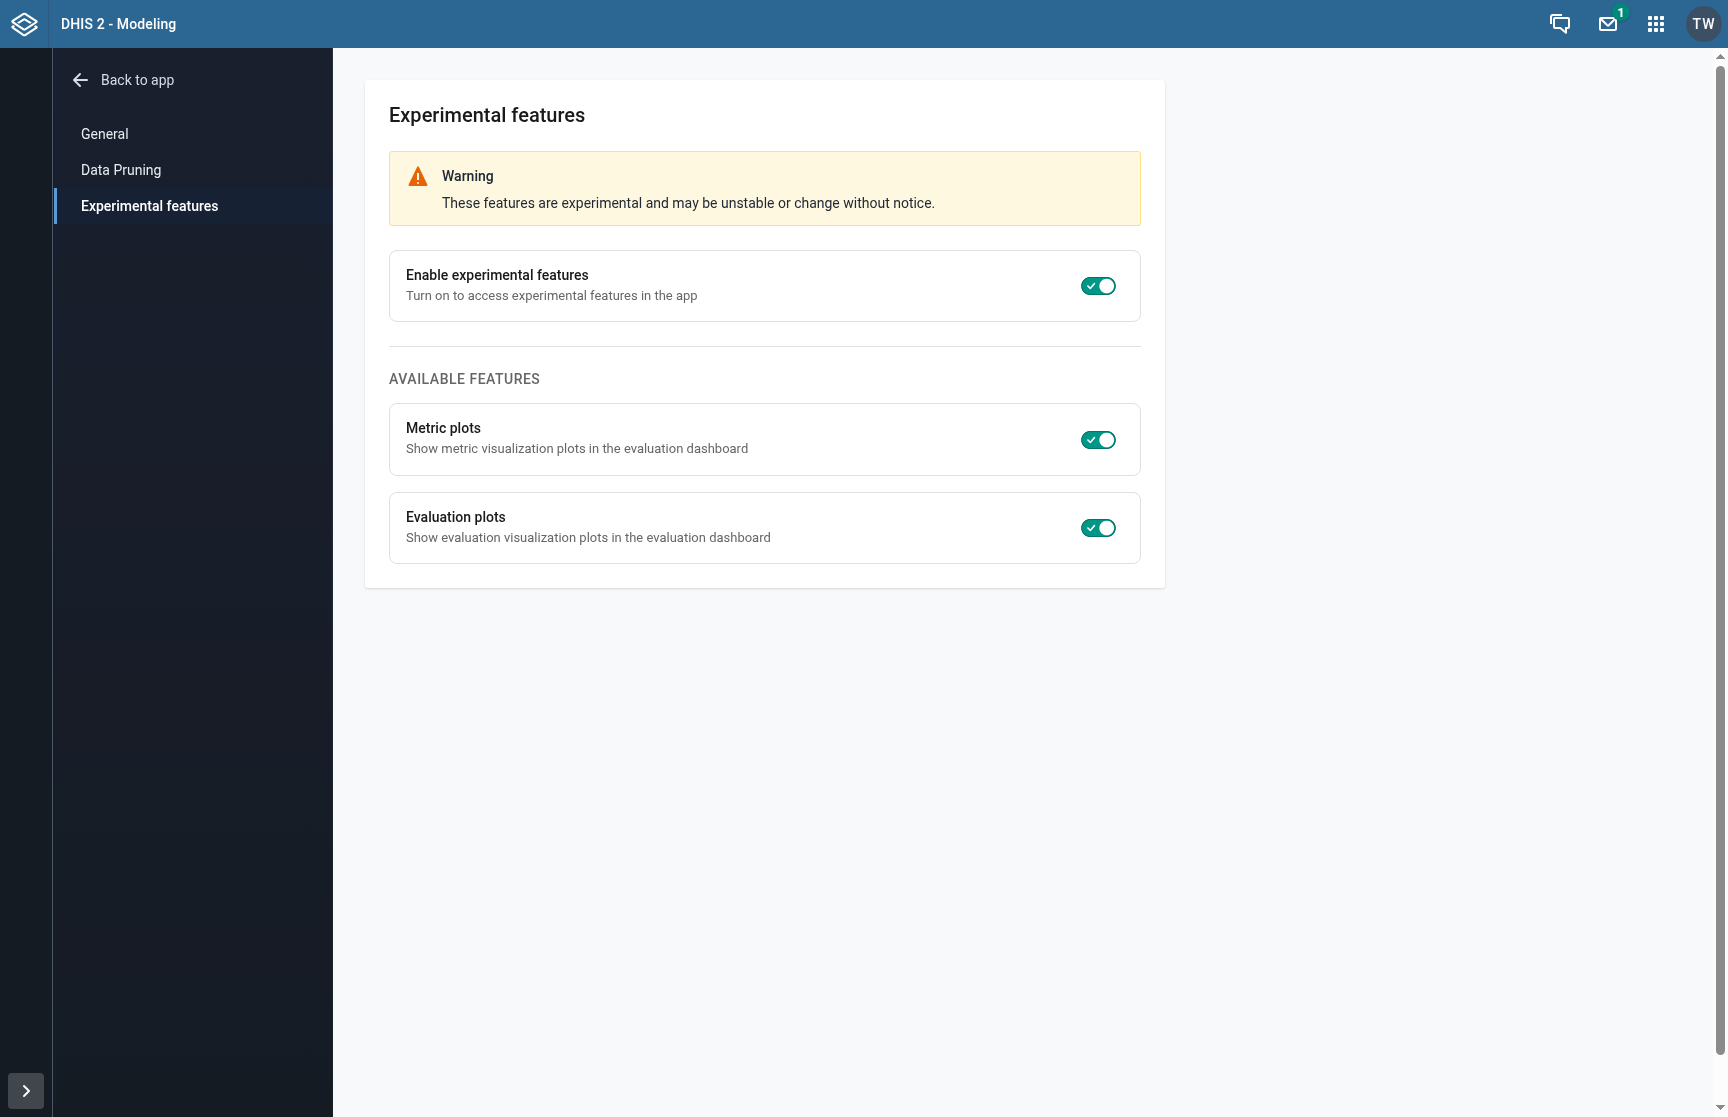
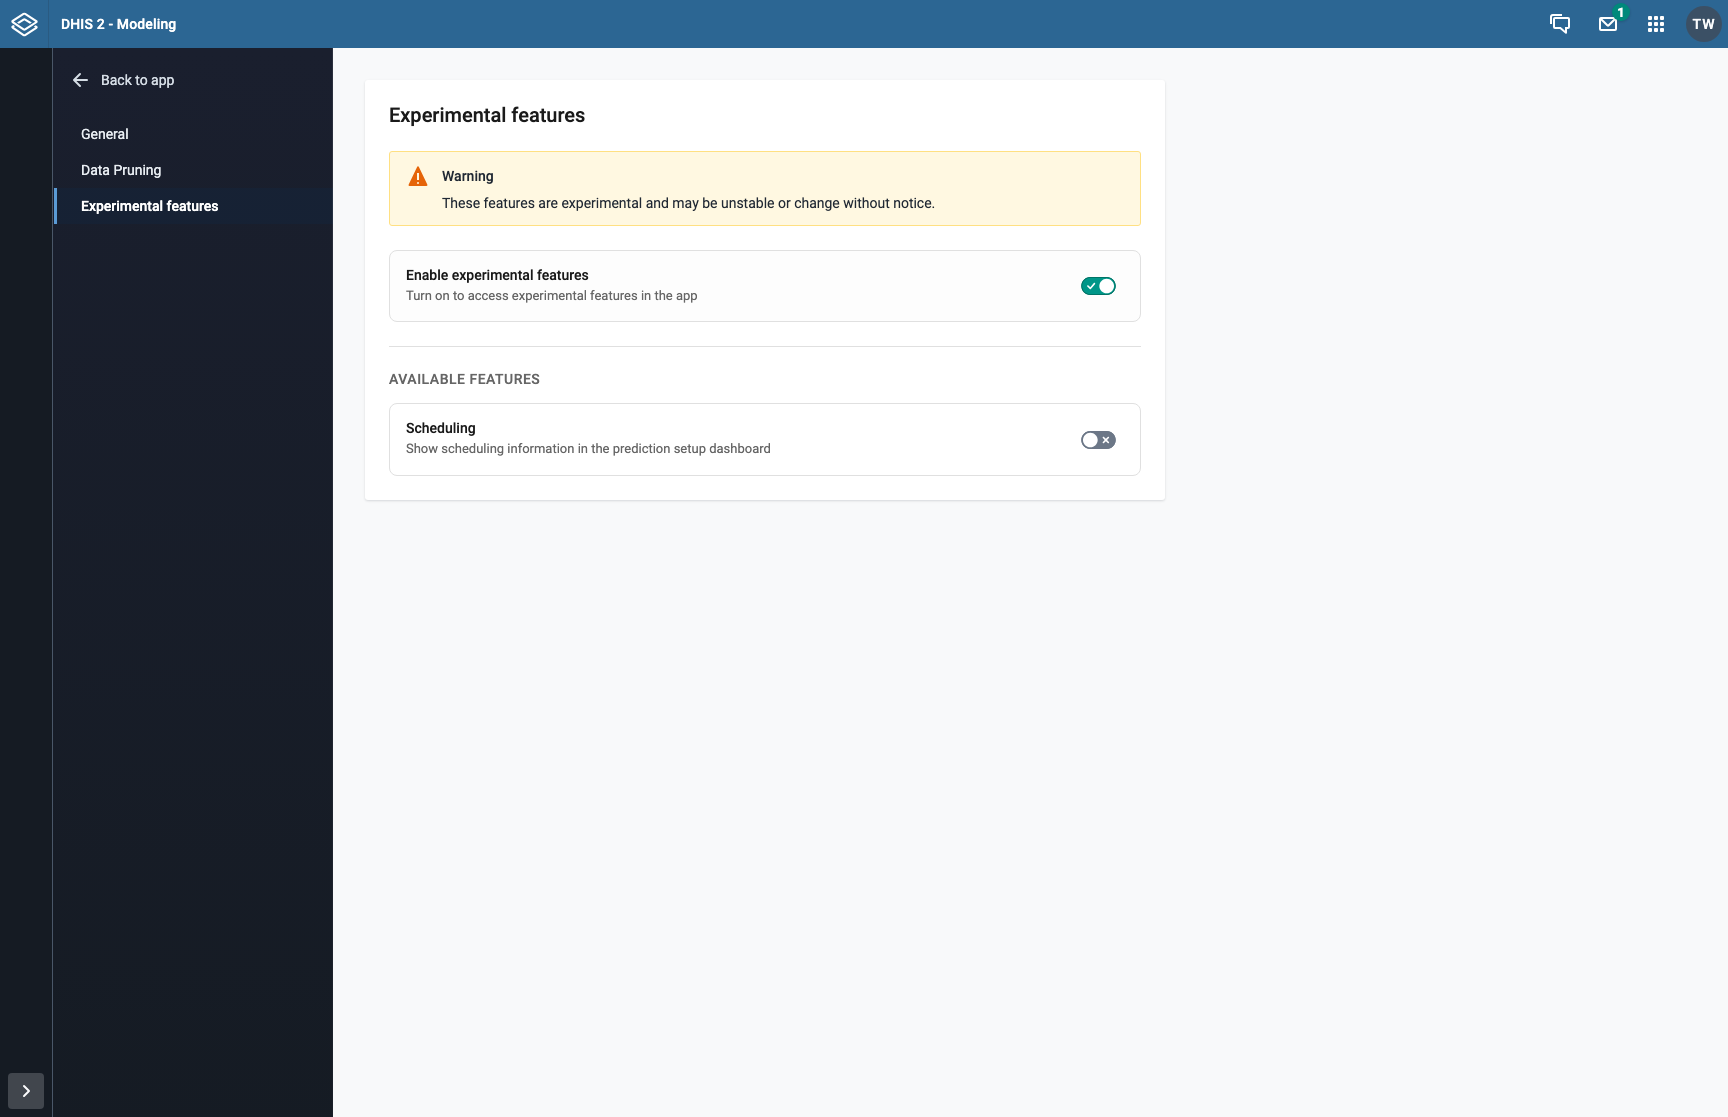
fix: verify and enable evaluation plots [CLIM-1039] (#250)
Evaluation plots are now always shown on the evaluation details page, so
the **Evaluation plots** experimental toggle is removed along with its
setting and user guide entry.

The predicted vs actual plots sent `horizon_period` (a period id) where
the backend expects `horizon_distance` (a number), so the subplot
request was unfiltered and every horizon was plotted. Both plots now
send the selected horizon distance.

Adds an e2e test that selects each predicted vs actual plot with
experimental features off and checks the returned points against the
evaluation entry and actual case data from the API.

[CLIM-1039](https://dhis2.atlassian.net/browse/CLIM-1039)

[CLIM-1039]:
https://dhis2.atlassian.net/browse/CLIM-1039?atlOrigin=eyJpIjoiNWRkNTljNzYxNjVmNDY3MDlhMDU5Y2ZhYzA5YTRkZjUiLCJwIjoiZ2l0aHViLWNvbS1KU1cifQ

diff --git a/apps/modeling-app/e2e/evaluations.spec.ts b/apps/modeling-app/e2e/evaluations.spec.ts
@@ -1,8 +1,80 @@
 import { expect, test } from '@playwright/test';
+import type { DataList, EvaluationEntry } from '@dhis2-chap/ui';
+import type { Spec } from 'vega';
+import { createCompletedNaiveEvaluation, chapUrl, readJson } from './helpers/evaluation-fixtures';
 
 test('logs in and loads the evaluations table', async ({ page }) => {
     await page.goto('/#/evaluate');
 
     await expect(page.getByRole('heading', { name: 'Evaluations' })).toBeVisible();
     await expect(page.locator('table').first()).toBeVisible();
+});
+
+test('renders predicted vs actual for the selected horizon without experimental features', async ({ page }, testInfo) => {
+    test.setTimeout(240_000);
+    page.setDefaultTimeout(15_000);
+    const evaluation = await createCompletedNaiveEvaluation(page);
+
+    // Isolate the feature-flag state; all evaluation and plot data use the real API.
+    await page.route('**/dataStore/modeling/experimental*', route => route.fulfill({
+        json: { version: 1, enabled: false, features: { evaluationPlots: false } },
+    }));
+    await page.goto(`/#/evaluate/${evaluation.id}`);
+    await expect(page.getByText('Evaluation plots', { exact: true })).toBeVisible();
+
+    const entries = await readJson<EvaluationEntry[]>(
+        await page.request.get(chapUrl(`/v1/analytics/evaluation-entry?backtestId=${evaluation.id}&quantiles=0.5`)),
+        'Load median predictions',
+    );
+    const actual = await readJson<DataList>(
+        await page.request.get(chapUrl(`/v1/analytics/actual-cases/${evaluation.id}`)),
+        'Load actual cases',
+    );
+
+    const observed = new Map(actual.data.map(value => [`${value.ou} ${value.pe}`, value.value]));
+    const monthIndex = (period: string) => Number(period.slice(0, 4)) * 12 + Number(period.slice(4));
+    const horizonOf = (entry: EvaluationEntry) => monthIndex(entry.period) - monthIndex(entry.splitPeriod) + 1;
+    const pointKey = (point: Record<string, string | number | null>) =>
+        `${point.location} ${String(point.time_period).slice(0, 7).replace('-', '')}`;
+
+    await page.locator('[data-test="evaluation-plot-select"]').click();
+    await page.getByRole('menuitem', { name: 'Predicted vs Actual', exact: true }).click();
+    await expect(page.getByText('Please select a forecast horizon to view this visualization.')).toBeVisible();
+
+    for (const horizon of [1, 2]) {
+        await page.locator('[data-test="evaluation-plot-horizon-select"]').click();
+        const plotResponse = page.waitForResponse(response =>
+            response.url().endsWith(`/backtest-plots/predicted_vs_actual/${evaluation.id}/subplot`) &&
+            response.request().method() === 'POST',
+        );
+        await page.getByRole('menuitem', { name: `${horizon} period${horizon === 1 ? '' : 's'} ahead`, exact: true }).click();
+        const response = await plotResponse;
+        expect(response.request().postDataJSON()).toEqual({ horizon_distance: horizon });
+
+        const spec = await readJson<Spec>(response, 'Load predicted vs actual plot');
+        const points = (spec.data?.flatMap(data => 'values' in data && Array.isArray(data.values)
+            ? data.values as Record<string, string | number | null>[]
+            : []) ?? []).filter(point => 'median_forecast' in point);
+
+        // The plot inner-joins forecasts with observations, so it holds exactly the
+        // org unit / period pairs this horizon forecast that also have an actual value.
+        // Comparing the whole set catches a dropped horizon filter, which mixes in pairs
+        // that only other horizons forecast.
+        const expectedEntries = entries.filter(entry =>
+            horizonOf(entry) === horizon && observed.has(`${entry.orgUnit} ${entry.period}`));
+        const medians = new Map(expectedEntries.map(entry => [`${entry.orgUnit} ${entry.period}`, entry.value]));
+        expect(medians.size).toBeGreaterThan(0);
+        expect(new Set(points.map(pointKey))).toEqual(new Set(medians.keys()));
+
+        for (const point of points) {
+            expect(point.median_forecast).toBe(medians.get(pointKey(point)));
+            expect(point.disease_cases).toBe(observed.get(pointKey(point)) ?? null);
+            expect(point.log1p_predicted).toBeCloseTo(Math.log1p(Number(point.median_forecast)));
+            if (point.disease_cases !== null) {
+                expect(point.log1p_actual).toBeCloseTo(Math.log1p(Number(point.disease_cases)));
+            }
+        }
+        await expect(page.locator('.vega-embed svg.marks')).toBeVisible();
+    }
+    await page.locator('.vega-embed').screenshot({ path: testInfo.outputPath('predicted-vs-actual.png') });
 });

diff --git a/apps/modeling-app/src/components/PageContent/EvaluationDetails/CustomEvaluationPlots/BackTestFilter.tsx b/apps/modeling-app/src/components/PageContent/EvaluationDetails/CustomEvaluationPlots/BackTestFilter.tsx
@@ -1,12 +1,21 @@
 import { useOrgUnitsById } from '@/hooks/useOrgUnitsById';
 import { MenuItem, SingleSelect } from '@dhis2/ui';
+import { getPeriodNameFromId } from '@dhis2-chap/ui';
 import { useMemo } from 'react';
 import i18n from '@dhis2/d2-i18n';
 import styles from './CustomEvaluationPlotsWidget.module.css';
 import { FacetCoordinates } from '@/components/BacktestsTable/hooks/useFacetCoordinates';
+import { toSplitPeriodId } from './splitPeriodId';
+
+const formatHorizon = (distance: number) => i18n.t('{{count}} period ahead', {
+    count: distance,
+    defaultValue: '{{count}} period ahead',
+    defaultValue_plural: '{{count}} periods ahead',
+});
 
 type Props = {
     facetCoords?: FacetCoordinates;
+    periodType?: string | null;
     filterLocation?: string;
     filterSplitPeriod?: string;
     filterHorizonPeriod?: string;
@@ -16,16 +25,22 @@ type Props = {
 };
 
 export const BackTestFilter = ({
-    facetCoords, filterLocation, filterSplitPeriod, filterHorizonPeriod,
+    facetCoords, periodType, filterLocation, filterSplitPeriod, filterHorizonPeriod,
     setFilterLocation, setFilterSplitPeriod, setFilterHorizonPeriod,
 }: Props) => {
     const splitPeriodOptions = useMemo(() =>
-        (facetCoords?.split_period ?? []).map(val => ({ value: val, label: val })),
-    [facetCoords?.split_period],
+        (facetCoords?.split_period ?? []).map((val) => {
+            const periodId = toSplitPeriodId(val, periodType);
+            return { value: val, label: periodId ? getPeriodNameFromId(periodId) : val };
+        }),
+    [facetCoords?.split_period, periodType],
     );
 
     const horizonOptions = useMemo(() =>
-        (facetCoords?.horizon_distance ?? []).map(val => ({ value: String(val), label: String(val) })),
+        (facetCoords?.horizon_distance ?? []).map(val => ({
+            value: String(val),
+            label: formatHorizon(val),
+        })),
     [facetCoords?.horizon_distance],
     );
 
@@ -54,6 +69,7 @@ export const BackTestFilter = ({
                     dense
                     clearable
                     clearText={i18n.t('Clear')}
+                    dataTest="evaluation-plot-location-select"
                     placeholder={i18n.t('Select organisation unit')}
                     selected={filterLocation}
                     loading={isOrgUnitsLoading}
@@ -72,6 +88,7 @@ export const BackTestFilter = ({
                     dense
                     clearable
                     clearText={i18n.t('Clear')}
+                    dataTest="evaluation-plot-split-period-select"
                     placeholder={i18n.t('Select split period')}
                     selected={filterSplitPeriod}
                     onChange={e => setFilterSplitPeriod(e.selected || undefined)}
@@ -88,7 +105,8 @@ export const BackTestFilter = ({
                     dense
                     clearable
                     clearText={i18n.t('Clear')}
-                    placeholder={i18n.t('Select horizon period')}
+                    dataTest="evaluation-plot-horizon-select"
+                    placeholder={i18n.t('Select forecast horizon')}
                     selected={filterHorizonPeriod}
                     onChange={e => setFilterHorizonPeriod(e.selected || undefined)}
                 >

diff --git a/apps/modeling-app/src/components/PageContent/EvaluationDetails/EvaluationDetails.component.tsx b/apps/modeling-app/src/components/PageContent/EvaluationDetails/EvaluationDetails.component.tsx
@@ -7,7 +7,6 @@ import { useBacktestById } from '@/hooks/useBacktestById';
 import { CircularLoader, NoticeBox } from '@dhis2/ui';
 import { EvaluationSummaryWidget } from './EvaluationSummaryWidget';
 import { EvaluationMetricsWidget } from './EvaluationMetricsWidget/EvaluationMetricsWidget';
-import { useExperimentalFeature, FEATURES } from '@/features/settings/Experimental';
 
 type Props = {
     evaluationId: number;
@@ -15,7 +14,6 @@ type Props = {
 
 export const EvaluationDetailsComponent = ({ evaluationId }: Props) => {
     const { backtest, isLoading: isBacktestLoading, error: backtestError } = useBacktestById(evaluationId);
-    const { enabled: isEvaluationPlotsEnabled } = useExperimentalFeature(FEATURES.EVALUATION_PLOTS);
     const predictionSetupId = backtest?.predictionSetupId ?? undefined;
 
     if (isBacktestLoading) {
@@ -52,16 +50,17 @@ export const EvaluationDetailsComponent = ({ evaluationId }: Props) => {
     }
 
     return (
-        <div className={styles.container}>
+        // Keyed so a cached navigation to another evaluation remounts the widgets
+        // instead of reusing the previous evaluation's plot filters and selections.
+        <div key={evaluationId} className={styles.container}>
             <div className={styles.leftColumn}>
                 <ModelExecutionResultWidget
                     backtest={backtest}
                 />
-                {isEvaluationPlotsEnabled && (
-                    <CustomEvaluationPlotsWidget
-                        evaluationId={evaluationId}
-                    />
-                )}
+                <CustomEvaluationPlotsWidget
+                    evaluationId={evaluationId}
+                    periodType={backtest.dataset.periodType}
+                />
             </div>
             <div className={styles.rightColumn}>
                 <QuickActionsWidget

diff --git a/apps/modeling-app/src/components/PageContent/EvaluationDetails/CustomEvaluationPlots/CustomEvaluationPlotsWidget.container.tsx b/apps/modeling-app/src/components/PageContent/EvaluationDetails/CustomEvaluationPlots/CustomEvaluationPlotsWidget.container.tsx
@@ -17,6 +17,7 @@ import { BackTestFilter } from './BackTestFilter';
 
 type Props = {
     evaluationId: number;
+    periodType?: string | null;
 };
 
 type WidgetWrapperProps = {
@@ -59,7 +60,7 @@ const WidgetWrapper = ({
     );
 };
 
-export const CustomEvaluationPlotsWidget = ({ evaluationId }: Props) => {
+export const CustomEvaluationPlotsWidget = ({ evaluationId, periodType }: Props) => {
     const [open, setOpen] = useState(true);
     const [filterLocation, setFilterLocation] = useState<string | undefined>(undefined);
     const [filterSplitPeriod, setFilterSplitPeriod] = useState<string | undefined>(undefined);
@@ -138,6 +139,7 @@ export const CustomEvaluationPlotsWidget = ({ evaluationId }: Props) => {
                 <div className={styles.controlsRow}>
                     <div className={styles.singleSelectContainer}>
                         <SingleSelect
+                            dataTest="evaluation-plot-select"
                             dense
                             selected={selectedVisualizationId}
                             placeholder={i18n.t('Select visualization')}
@@ -155,6 +157,7 @@ export const CustomEvaluationPlotsWidget = ({ evaluationId }: Props) => {
                     {!!facetCoordinates && (
                         <BackTestFilter
                             facetCoords={facetCoordinates}
+                            periodType={periodType}
                             filterLocation={filterLocation}
                             filterSplitPeriod={filterSplitPeriod}
                             filterHorizonPeriod={filterHorizonPeriod}

diff --git a/apps/modeling-app/src/components/PageContent/EvaluationDetails/CustomEvaluationPlots/CustomEvaluationPlotsWidget.component.tsx b/apps/modeling-app/src/components/PageContent/EvaluationDetails/CustomEvaluationPlots/CustomEvaluationPlotsWidget.component.tsx
@@ -131,7 +131,7 @@ export const CustomEvaluationPlotsWidgetComponent = ({
             missing.push(i18n.t('a split period'));
         }
         if (facetCoords.horizon_distance?.length && !filterHorizonPeriod) {
-            missing.push(i18n.t('a horizon period'));
+            missing.push(i18n.t('a forecast horizon'));
         }
         return missing;
     }, [facetCoords, filterLocation, filterSplitPeriod, filterHorizonPeriod]);
@@ -144,7 +144,7 @@ export const CustomEvaluationPlotsWidgetComponent = ({
                 ? {
                         ...(filterLocation && { location: filterLocation }),
                         ...(filterSplitPeriod && { split_period: filterSplitPeriod }),
-                        ...(filterHorizonPeriod && { horizon_period: filterHorizonPeriod }),
+                        ...(filterHorizonPeriod && { horizon_distance: Number(filterHorizonPeriod) }),
                     }
                 : undefined,
         [hasFilters, filterLocation, filterSplitPeriod, filterHorizonPeriod],

diff --git a/apps/modeling-app/src/features/settings/Experimental/ExperimentalSettings.tsx b/apps/modeling-app/src/features/settings/Experimental/ExperimentalSettings.tsx
@@ -72,13 +72,6 @@ export const ExperimentalSettings = () => {
                             </div>
                             <div className={styles.toggleList}>
                                 <ChoiceCard
-                                    title={i18n.t('Evaluation plots')}
-                                    description={i18n.t('Show evaluation visualization plots in the evaluation dashboard')}
-                                    checked={settings.features[FEATURES.EVALUATION_PLOTS] ?? false}
-                                    onChange={() => toggleFeature(FEATURES.EVALUATION_PLOTS)}
-                                    disabled={isSaving || !canEdit}
-                                />
-                                <ChoiceCard
                                     title={i18n.t('Scheduling')}
                                     description={i18n.t('Show scheduling information in the prediction setup dashboard')}
                                     checked={settings.features[FEATURES.SCHEDULING] ?? false}

diff --git a/apps/modeling-app/src/components/PageContent/EvaluationDetails/CustomEvaluationPlots/splitPeriodId.ts b/apps/modeling-app/src/components/PageContent/EvaluationDetails/CustomEvaluationPlots/splitPeriodId.ts
@@ -1,0 +1,20 @@
+import { PERIOD_TYPES } from '@dhis2-chap/core';
+
+/**
+ * chap-core reports split period facet coordinates as the ISO start date of the
+ * period ("2023-10-01"), while the rest of the app names periods by id ("202310").
+ * Only monthly datasets can be identified from the start date alone; for anything
+ * else the caller has to keep the date rather than show a guessed period name.
+ */
+export const toSplitPeriodId = (
+    splitPeriod: string,
+    periodType?: string | null,
+): string | undefined => {
+    const match = /^(\d{4})-(\d{2})-\d{2}$/.exec(splitPeriod);
+
+    if (!match || periodType?.toUpperCase() !== PERIOD_TYPES.MONTH) {
+        return undefined;
+    }
+
+    return `${match[1]}${match[2]}`;
+};

diff --git a/apps/modeling-app/src/components/PageContent/EvaluationDetails/CustomEvaluationPlots/splitPeriodId.test.ts b/apps/modeling-app/src/components/PageContent/EvaluationDetails/CustomEvaluationPlots/splitPeriodId.test.ts
@@ -1,0 +1,17 @@
+import { describe, expect, it } from 'vitest';
+import { toSplitPeriodId } from './splitPeriodId';
+
+describe('toSplitPeriodId', () => {
+    it('reads the period id of a monthly split period', () => {
+        expect(toSplitPeriodId('2023-10-01', 'month')).toBe('202310');
+    });
+
+    it('gives up on period types it cannot identify', () => {
+        expect(toSplitPeriodId('2023-10-02', 'week')).toBeUndefined();
+        expect(toSplitPeriodId('2023-10-01', undefined)).toBeUndefined();
+    });
+
+    it('gives up on values that are not ISO dates', () => {
+        expect(toSplitPeriodId('202310', 'month')).toBeUndefined();
+    });
+});

diff --git a/apps/modeling-app/src/components/BacktestsTable/hooks/useIsolatedPlots.tsx b/apps/modeling-app/src/components/BacktestsTable/hooks/useIsolatedPlots.tsx
@@ -4,7 +4,7 @@ import { ApiError, VisualizationsService } from '@dhis2-chap/ui';
 export type IsolatedPlotsRequestBody = {
     location?: string;
     split_period?: string;
-    horizon_period?: string;
+    horizon_distance?: number;
 };
 
 type UseIsolatedPlotsParams = {

diff --git a/apps/modeling-app/src/features/settings/Experimental/hooks/useExperimentalSettings.ts b/apps/modeling-app/src/features/settings/Experimental/hooks/useExperimentalSettings.ts
@@ -22,7 +22,6 @@ export const QUERY_KEY = ['dataStore', 'modeling', 'experimental'];
 export const DATASTORE_RESOURCE = 'dataStore/modeling/experimental';
 
 export const FEATURES = {
-    EVALUATION_PLOTS: 'evaluationPlots',
     SCHEDULING: 'scheduling',
 } as const;
 

diff --git a/apps/modeling-app/docs/user-guides/settings/index.md b/apps/modeling-app/docs/user-guides/settings/index.md
@@ -86,10 +86,9 @@ Click **Experimental features** in the settings sidebar. Toggle the main **Enabl
 
 Once enabled, you can toggle individual features:
 
-- **Evaluation plots**: Adds a custom evaluation visualization widget to the evaluation details page with alternative chart types
 - **Scheduling**: Shows scheduling information in the prediction setup dashboard
 
-These features are experimental and may change or be removed in future releases.
+Experimental features may change or be removed in future releases. Evaluation plots, including predicted vs actual, are available on the evaluation details page without enabling experimental features.
 
 ![Experimental features page with toggle switches](images/settings-step-6-experimental.png)
 

diff --git a/.changeset/predicted-vs-actual.md b/.changeset/predicted-vs-actual.md
@@ -1,0 +1,5 @@
+---
+'@dhis2-chap/modeling-app': minor
+---
+
+Make evaluation plots available without experimental features and fix predicted vs actual plots to show only the selected forecast horizon. Plot filters now name split periods the way the rest of the app does and label horizons as "1 period ahead". Opening another evaluation now resets the plot filters and result selections instead of carrying over the previous evaluation's choices [CLIM-1039].
